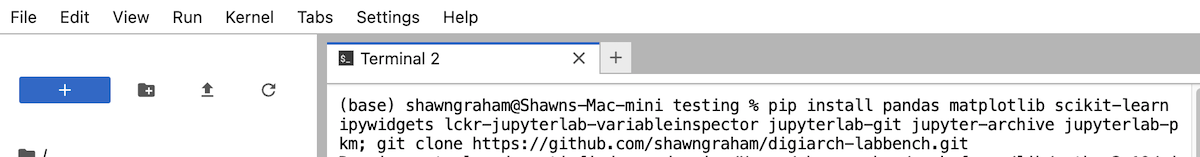
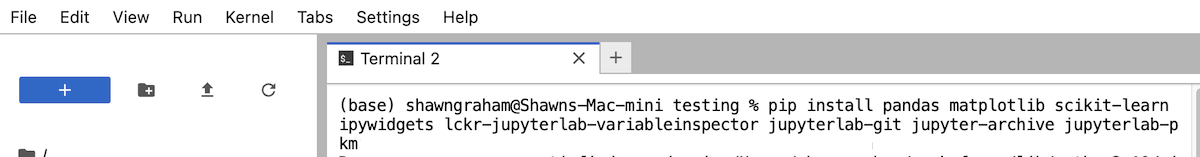
wee fix

diff --git a/docs/materials/wk1-jupyterdesktop/index.html b/docs/materials/wk1-jupyterdesktop/index.html
@@ -401,7 +401,7 @@
 </li>
 </ul>
 <p>Now we will install the specific Python libraries and extensions needed for this course with a single command.</p>
-<p>Step 1. When you first install Jupyter, it will check to see if you have Python installed on your machine. If it cannot find it in the usual places, it will ask you if you want to install with the bundled Python. Click on that install bundled python option. This might take four or five minutes.</p>
+<p>Step 1. When you first install Jupyter, it will check to see if you have Python installed on your machine. If it cannot find it in the usual places, it will ask you if you want to install with the bundled Python. In the screenshot below it&rsquo;s not clear that where it says &lsquo;Install using the bundled installer&rsquo; is actually a link. <strong>It is!</strong> Click on that. This might take four or five minutes.</p>
 <p><img src="/docs/support/images/jdl/jdl0.png"></p>
 <p>Step 2. When it&rsquo;s done, the install notification will disappear and the main splash screen will be showing. Select &lsquo;open&rsquo; and choose the lab bench folder you downloaded and unzipped. This is where you want to do your course work.</p>
 <p><img src="/docs/support/images/jdl/jdl1.png"></p>
@@ -411,8 +411,7 @@
 <p><img src="/docs/support/images/jdl/jdl3.png"></p>
 <p>Step 5. Copy the entire command below from <code>pip</code> all the way to <code>jupyterlab-pkm</code>. The command <code>pip</code> is used to obtain little pieces of pre-packaged code. Pip will download and then install a number of extensions for python and jupyter that we need. It is installing them into the version of python indicated in the top right-hand corner of the interface.) So double-click the command below to select all of it, then copy (Ctrl+C or Cmd+C).</p>
 <pre tabindex="0"><code>    pip install pandas matplotlib scikit-learn ipywidgets lckr-jupyterlab-variableinspector jupyterlab-geojson jupyter-archive jupyterlab-pkm
-</code></pre><p>(<em>sharp-eyed folks will notice that the image contains an extra command called &lsquo;git&rsquo;. You can ignore that.</em>)</p>
-<p>Step 6. Paste the command into the JupyterLab terminal (Ctrl+V or Cmd+V) and press Enter.</p>
+</code></pre><p>Step 6. Paste the command into the JupyterLab terminal (Ctrl+V or Cmd+V) and press Enter.</p>
 <p><img src="/docs/support/images/jdl/jdl4.png"></p>
 <p>You will see a lot of text as that command runs and packages are downloaded and installed. This may take a few minutes. Wait for it to finish and for the command prompt ($ or &gt;) to reappear.</p>
 <p>Step 7. Completely close JupyterLab Desktop.</p>
